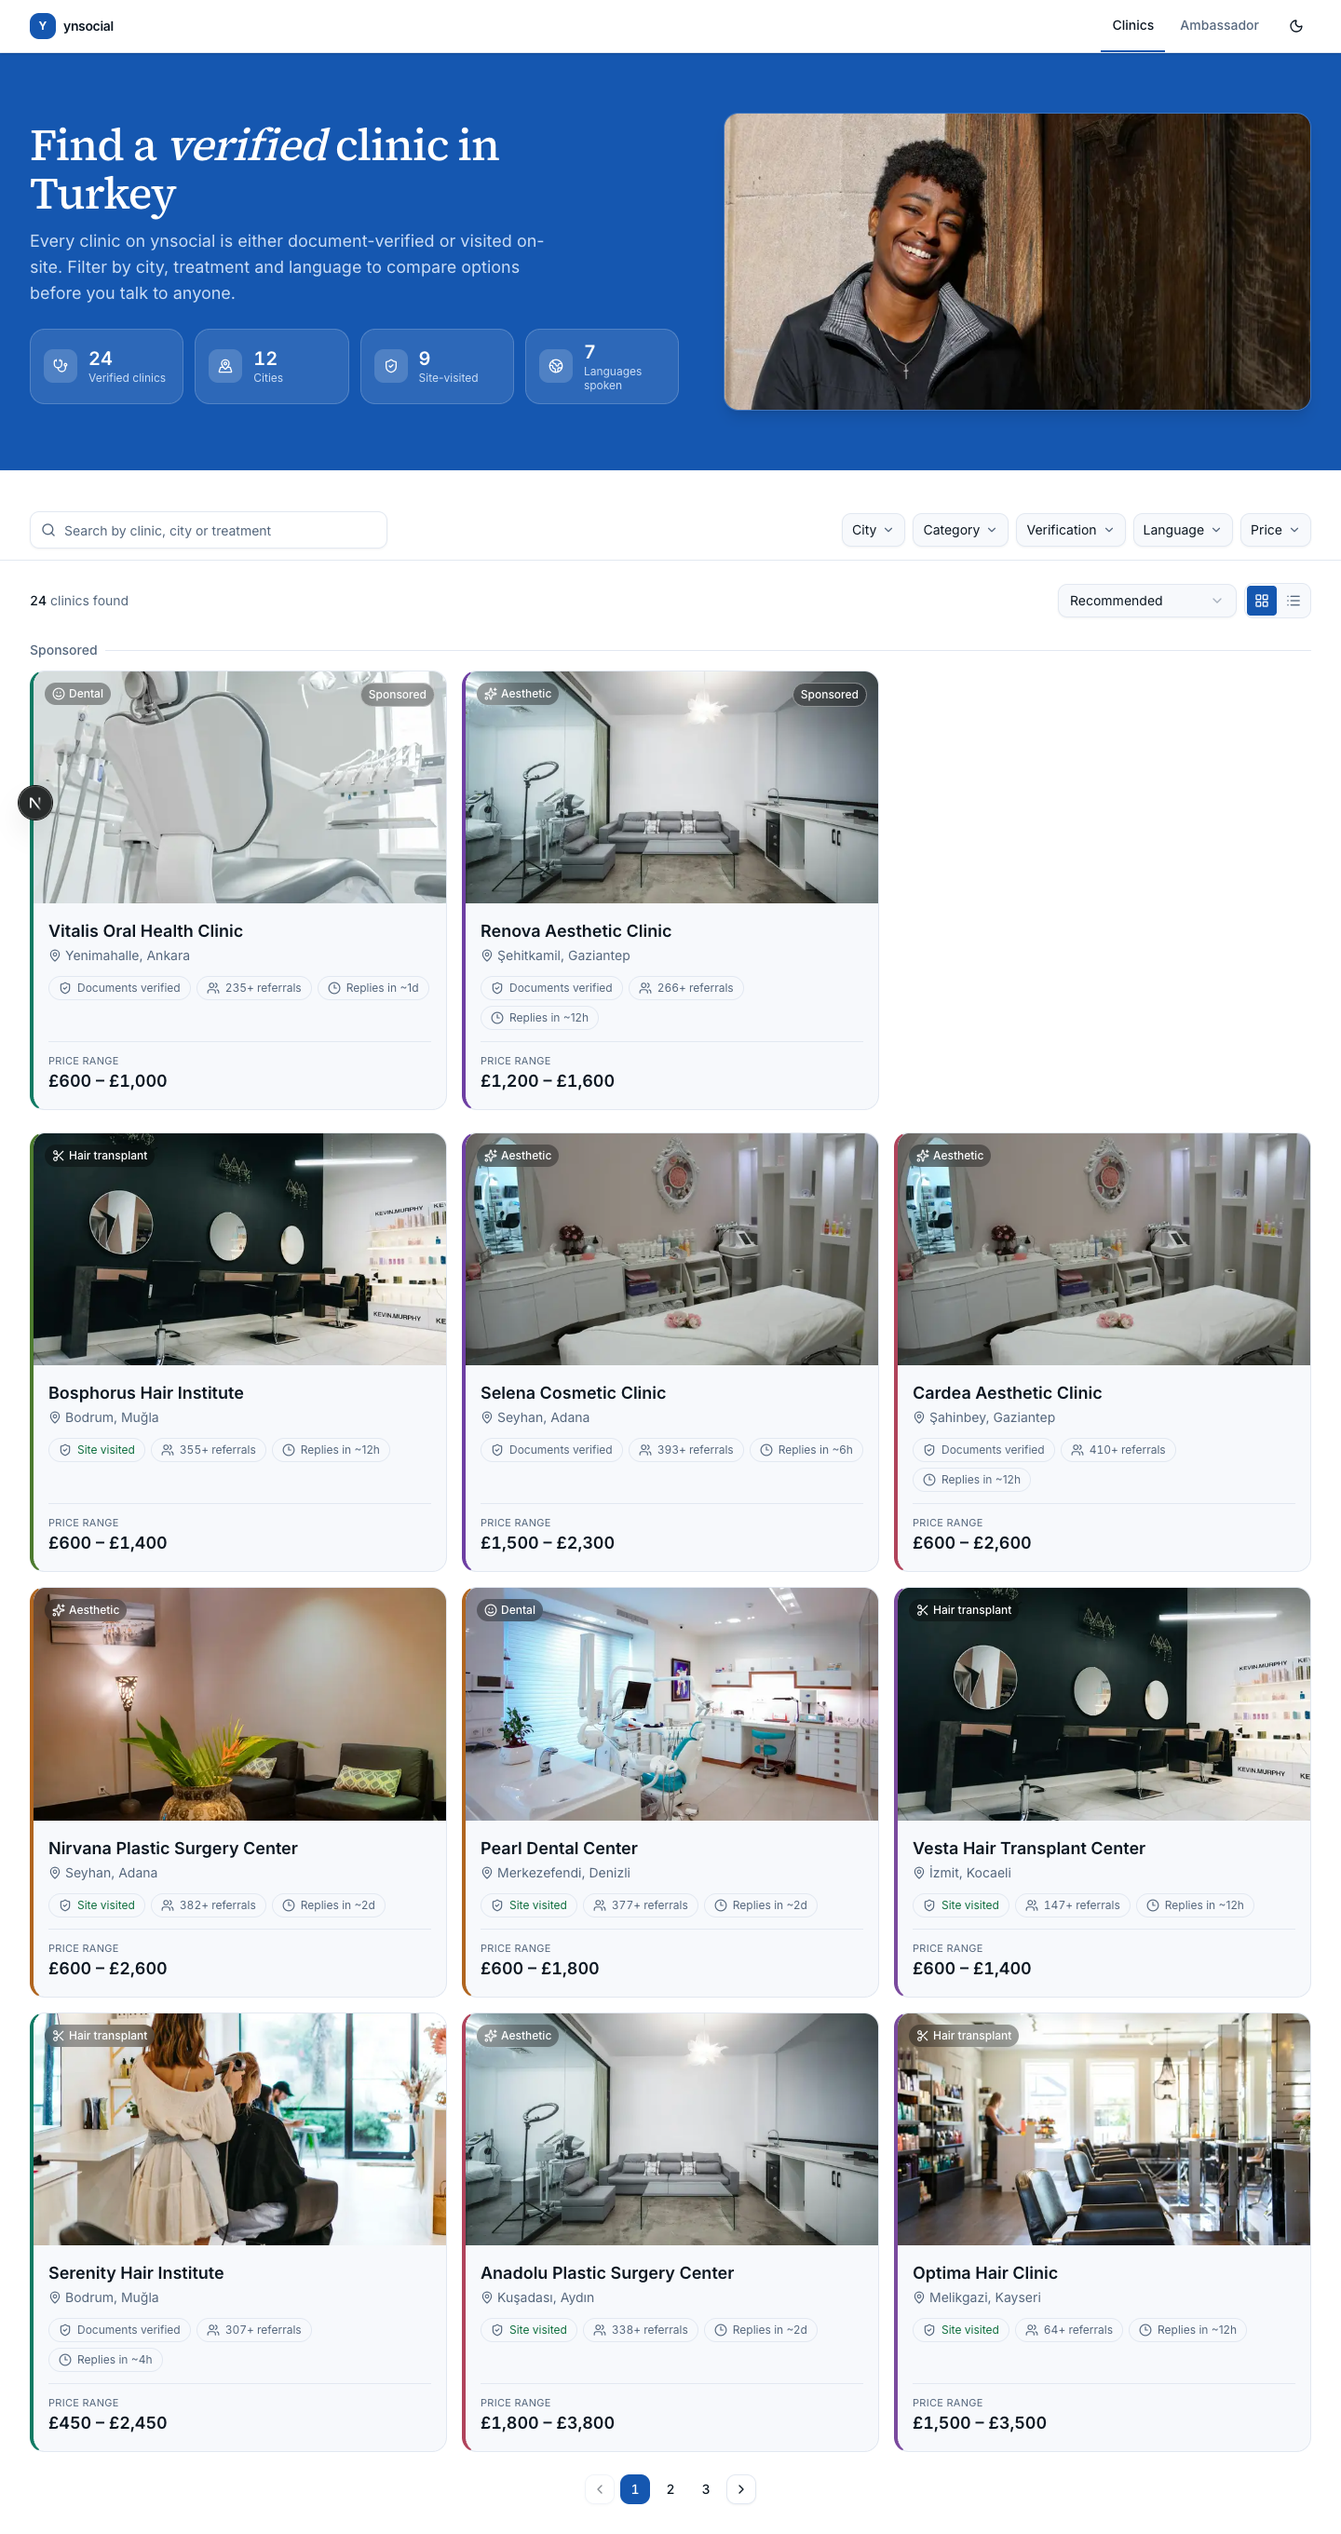
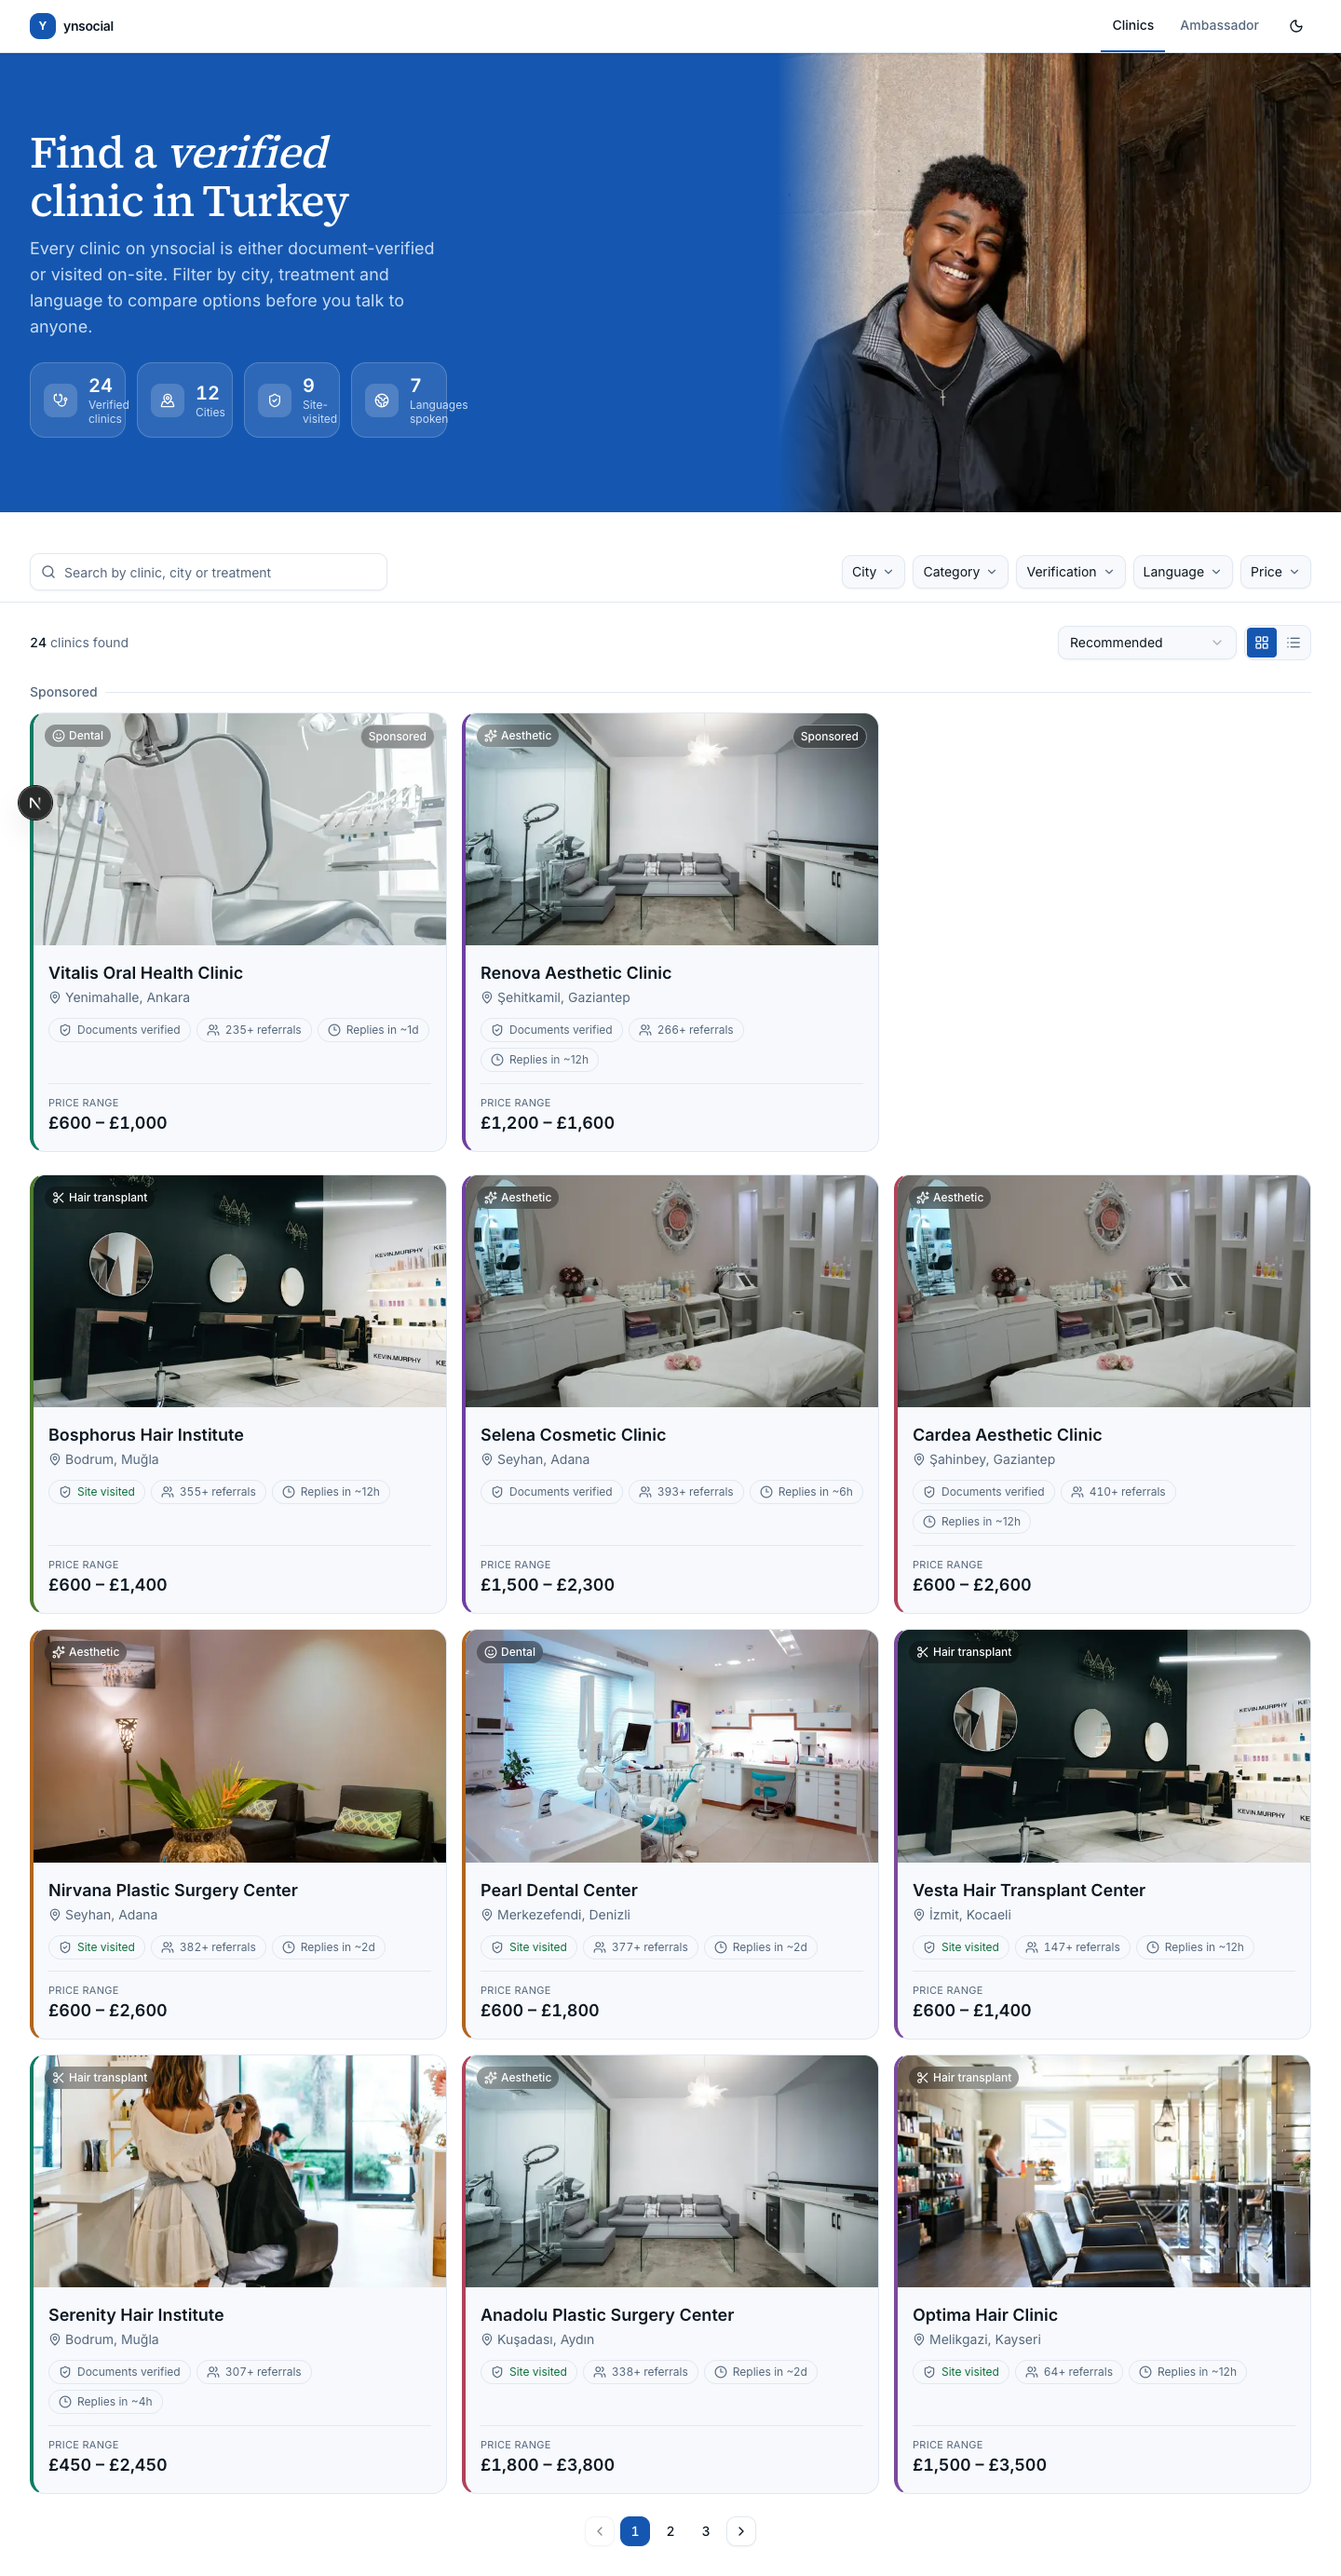
Bleed the hero photo to the section edge instead of a floating box
The photo sat in a rounded, bordered card inside the blue band, which
read as a widget placed on top of the section rather than a photo the
section was built around — the "template" feel the brief specifically
warns against. It's now absolutely positioned full-bleed on desktop (no
radius, no border, a left-edge gradient into --hero-bg instead of a hard
seam) and a full-width strip below the copy on mobile. Also fixed the
mobile layout gap this introduced between the stat tiles and the photo.

Changed region(s): [[0.0, 0.0, 1.0, 0.9684], [0.4062, 0.125, 0.4688, 0.1562], [0.3438, 0.0312, 0.375, 0.0625]]

diff --git a/src/app/clinics/page.tsx b/src/app/clinics/page.tsx
@@ -20,10 +20,24 @@ export default async function ClinicsPage() {
 
   return (
     <main className="flex w-full flex-col">
-      <div className="hero-panel">
-        <div className="mx-auto grid w-full page-container grid-cols-1 items-center gap-8 px-4 py-12 sm:px-5 lg:grid-cols-[1.05fr_0.95fr] lg:gap-12 lg:px-8 lg:py-16">
-          <div className="flex flex-col gap-6">
-            <div className="max-w-xl space-y-3">
+      <div className="hero-panel relative overflow-hidden">
+        {/* Photo bleeds to the true edge of the section on desktop — a
+            floating rounded card here read as a widget, not a photo. */}
+        <div className="absolute inset-y-0 right-0 hidden w-[42%] lg:block">
+          <Image
+            src="/images/hero-clinics.jpg"
+            alt=""
+            fill
+            priority
+            sizes="42vw"
+            className="object-cover"
+          />
+          <div className="hero-photo-fade absolute inset-y-0 left-0 w-24" aria-hidden="true" />
+        </div>
+
+        <div className="relative mx-auto w-full page-container px-4 pb-8 pt-12 sm:px-5 sm:pb-10 lg:px-8 lg:py-20">
+          <div className="flex max-w-xl flex-col gap-6 lg:max-w-md">
+            <div className="space-y-3">
               <h1 className="font-serif text-4xl font-medium tracking-tight text-hero-text sm:text-5xl">
                 Find a <em className="font-serif italic text-hero-text">verified</em> clinic in
                 Turkey
@@ -37,17 +51,20 @@ export default async function ClinicsPage() {
 
             <TrustStats clinics={clinics} />
           </div>
+        </div>
 
-          <div className="relative aspect-[4/3] w-full overflow-hidden rounded-2xl border border-hero-tile-border shadow-lg lg:aspect-auto lg:h-full lg:min-h-80">
-            <Image
-              src="/images/hero-clinics.jpg"
-              alt=""
-              fill
-              priority
-              sizes="(min-width: 1024px) 45vw, 100vw"
-              className="object-cover"
-            />
-          </div>
+        {/* Mobile: the photo becomes a full-bleed strip below the copy
+            instead of disappearing. It's a direct child of the (unpadded)
+            hero-panel, so it already spans edge to edge with no margin
+            tricks — the padding lives on the copy container above it. */}
+        <div className="relative aspect-[16/10] w-full lg:hidden">
+          <Image
+            src="/images/hero-clinics.jpg"
+            alt=""
+            fill
+            sizes="100vw"
+            className="object-cover"
+          />
         </div>
       </div>
 

diff --git a/src/app/globals.css b/src/app/globals.css
@@ -242,6 +242,12 @@
     background: var(--hero-bg);
   }
 
+  /* Feathers the hard seam where the full-bleed hero photo meets the
+     solid color, instead of a plain vertical cut. */
+  .hero-photo-fade {
+    background: linear-gradient(to right, var(--hero-bg), transparent);
+  }
+
   /* Clinic card entrance — a brief, staggered rise, not a startup-style
      fly-in. Skipped entirely under prefers-reduced-motion (see below). */
   @keyframes card-rise {

diff --git a/README.md b/README.md
@@ -334,6 +334,16 @@ department where I intentionally pushed past "restrained" toward "bold,"
 on direct request — still one hue, but at full strength and covering a
 large surface, rather than confined to small chips.
 
+First pass at this put the photo in a rounded, bordered box floating
+inside the blue — on review that read as a widget sitting on the section,
+not a photo *of* the section, which is exactly the "template" feel the
+brief warns against. The photo now bleeds to the true edge on desktop
+(absolutely positioned, no radius, no border, a left-edge gradient feathering
+it into `--hero-bg` instead of a hard seam) and becomes a full-width strip
+below the copy on mobile rather than disappearing. Small change, but it's
+the difference between "a photo was added" and "the section was designed
+around a photo."
+
 ## How the two pages stay one system while looking different
 
 `/clinics` is the marketing face: generous whitespace, a serif display
